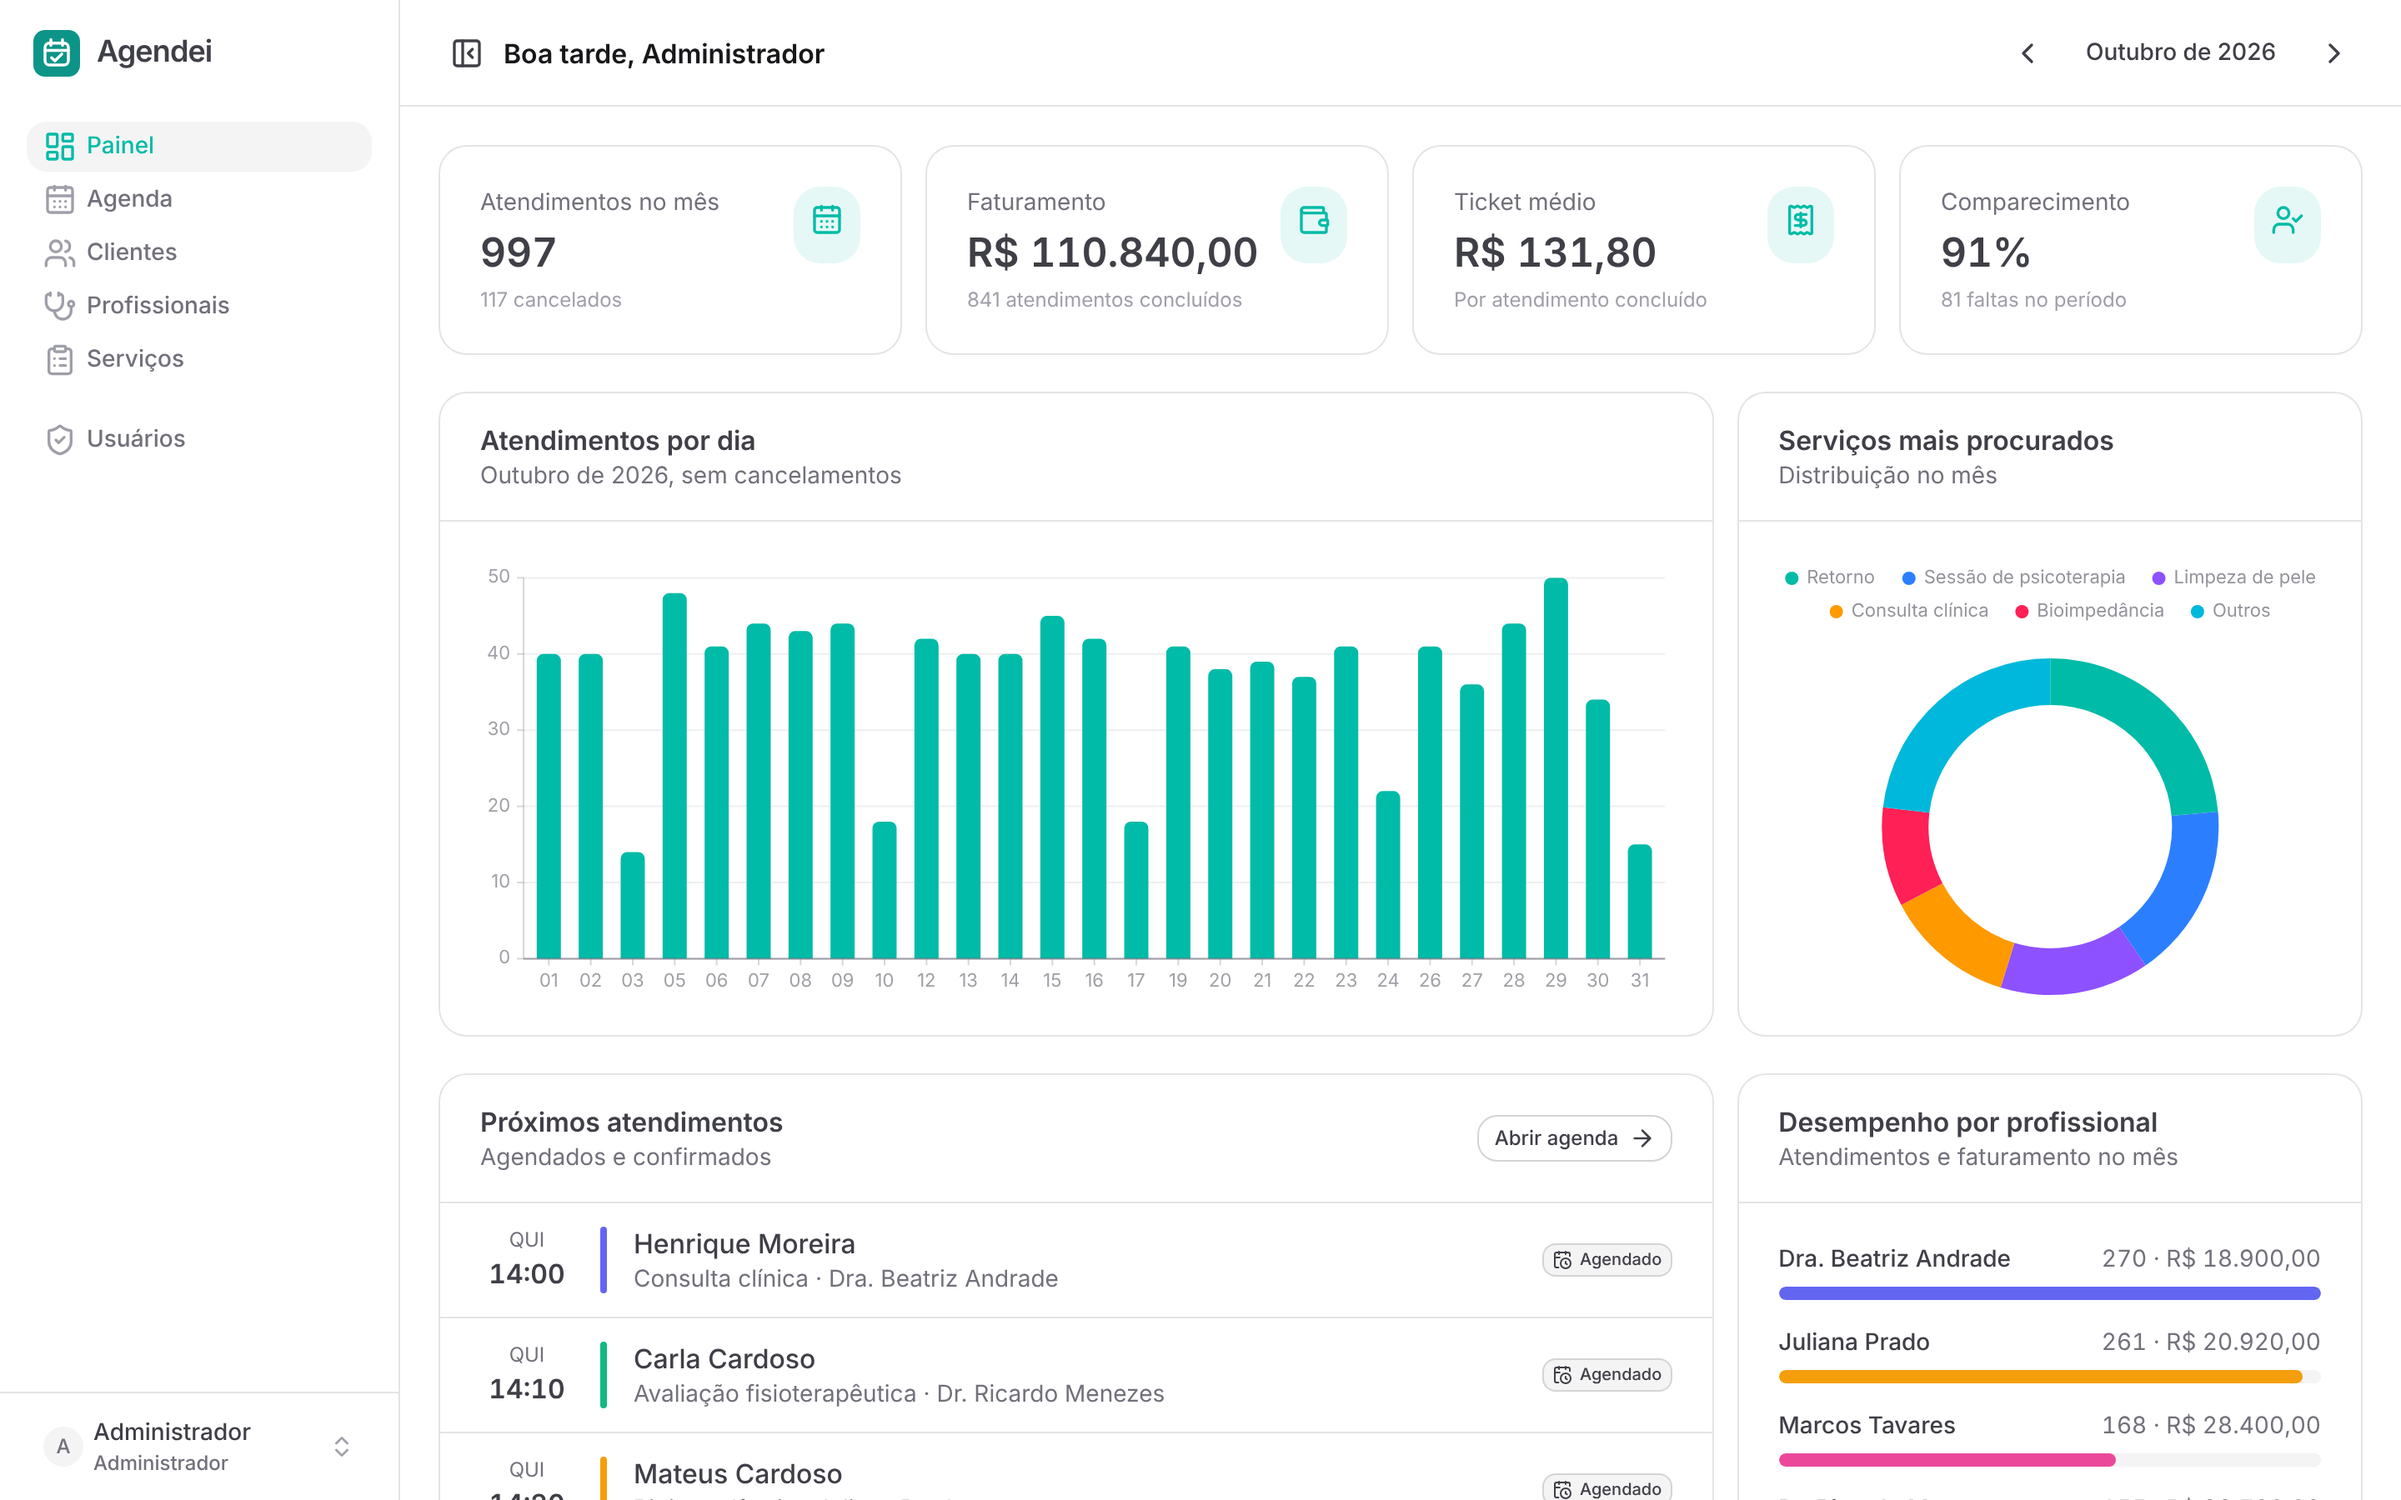
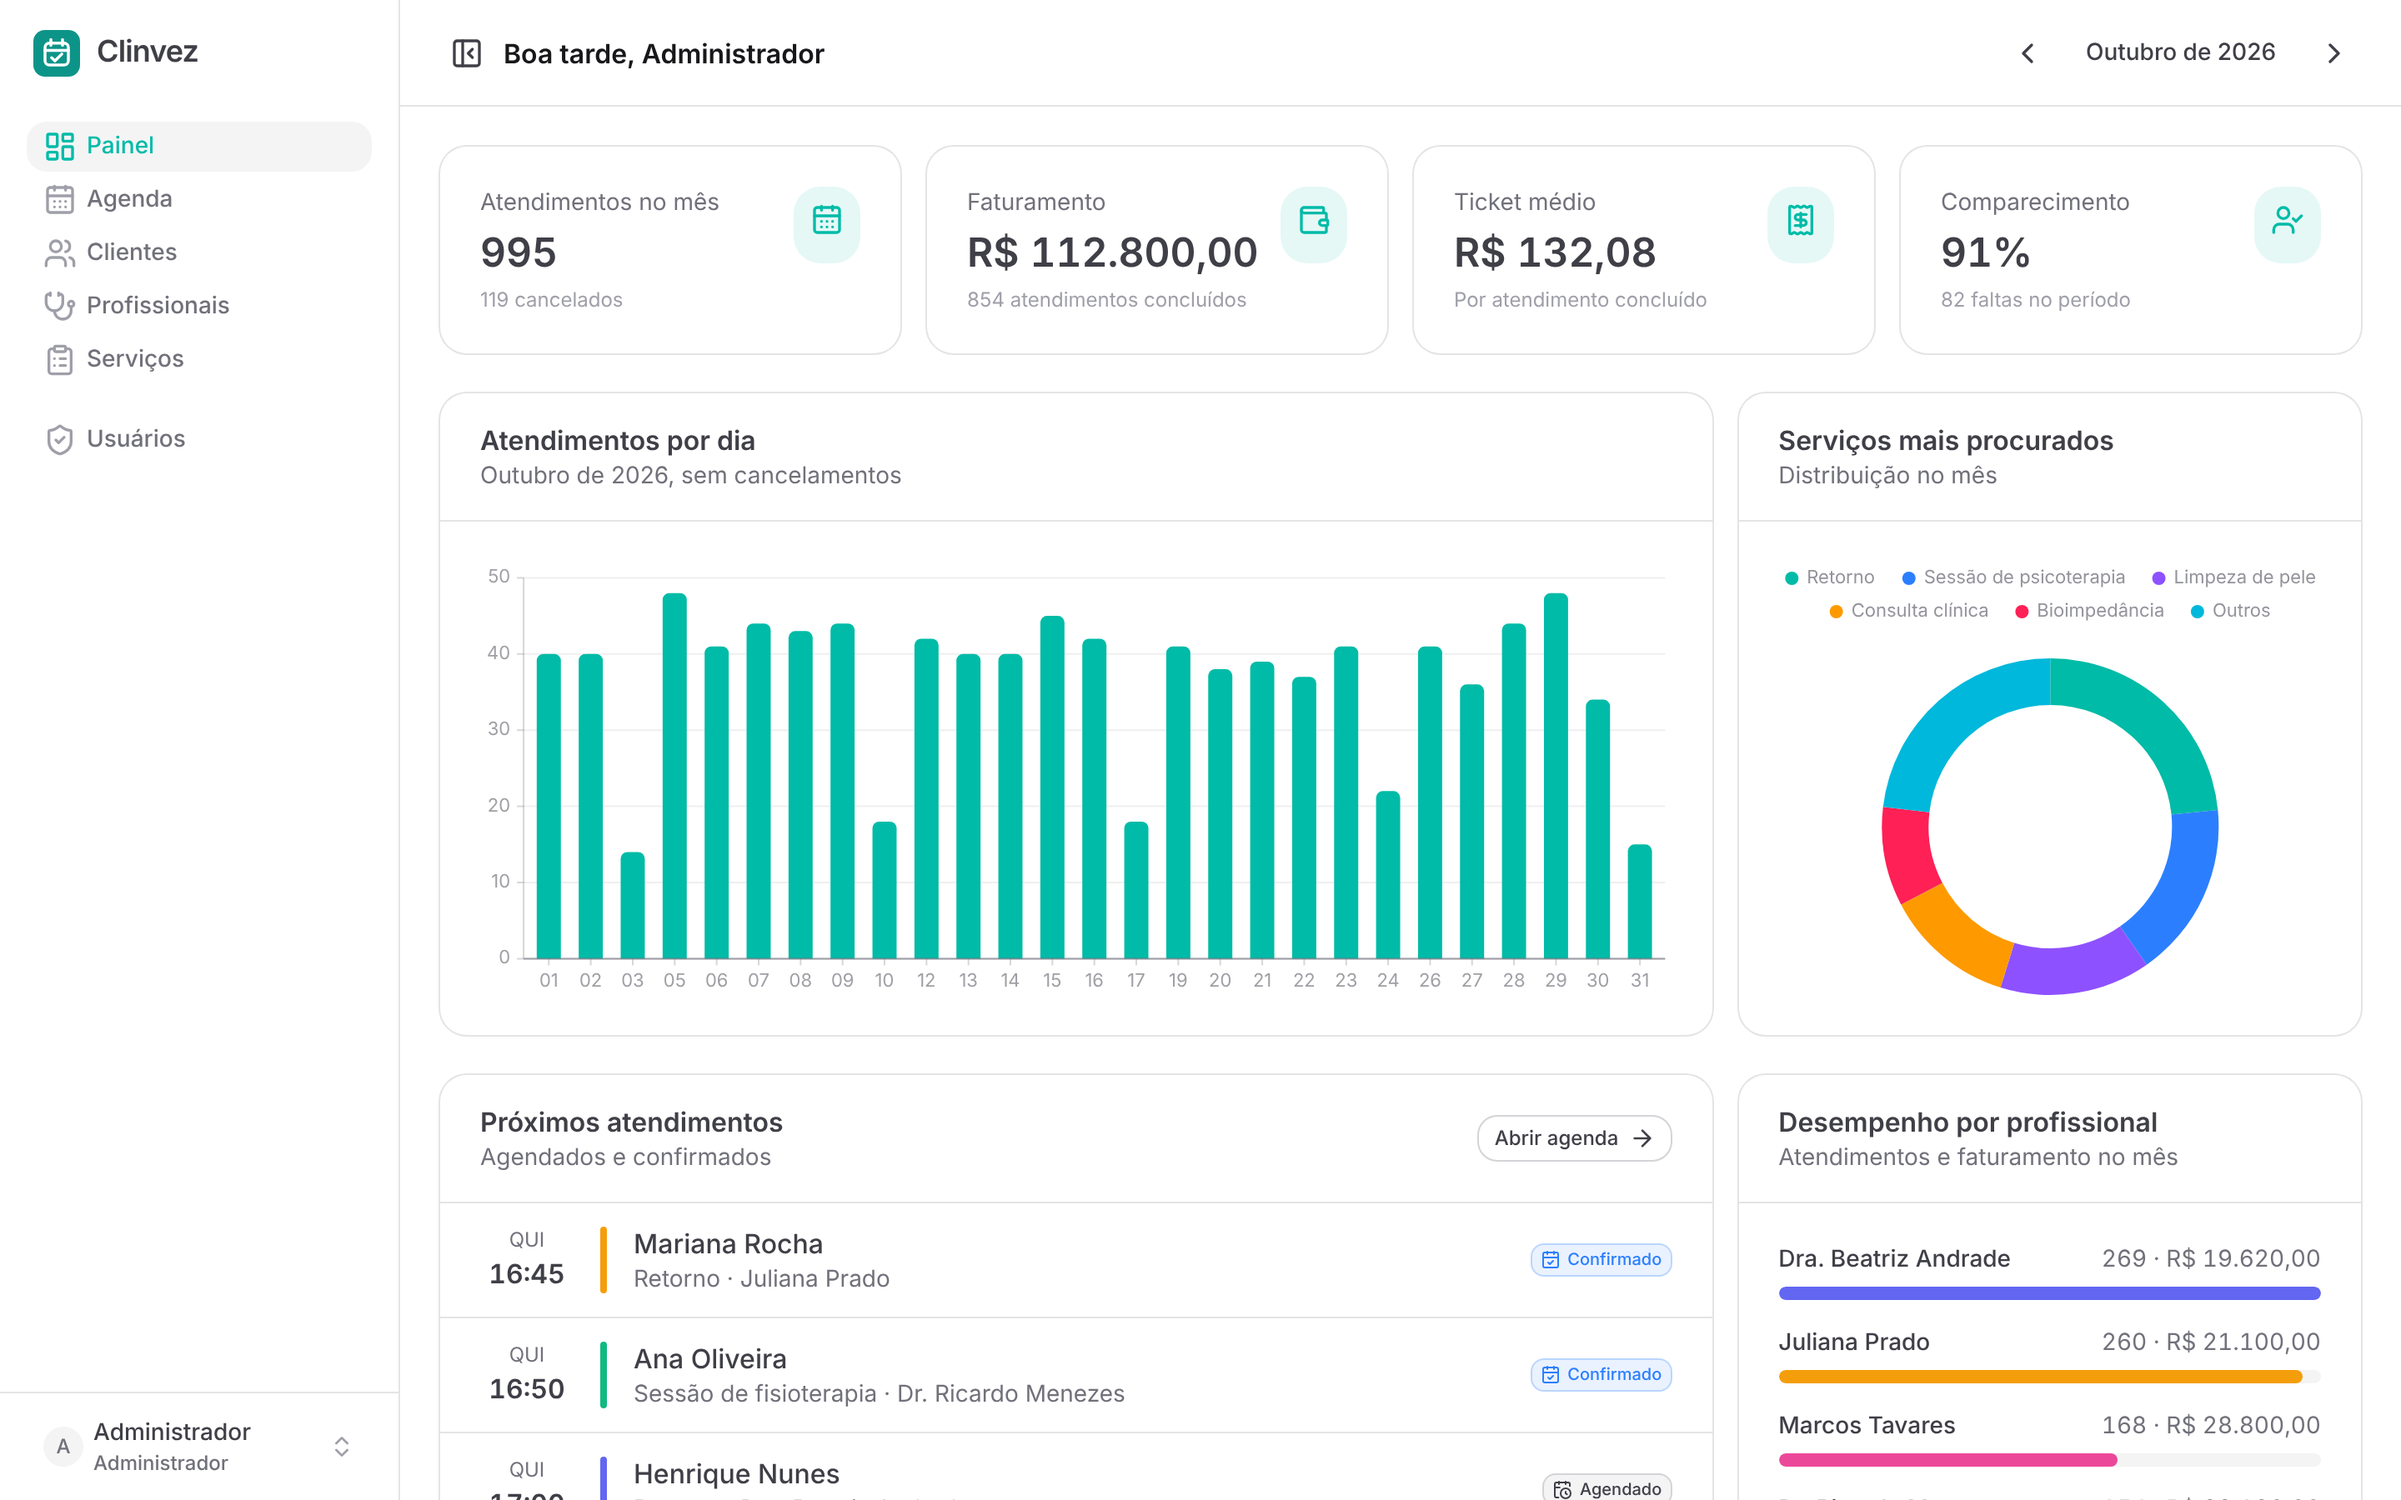
feat: renomear para Clinvez e centralizar a marca

diff --git a/apps/web/app/pages/login.vue b/apps/web/app/pages/login.vue
@@ -3,9 +3,10 @@ import type { FormSubmitEvent } from '@nuxt/ui'
 import { z } from 'zod'
 
 definePageMeta({ layout: false })
-useHead({ title: 'Entrar · Agendei' })
+useHead({ title: 'Entrar' })
 
 const { entrar } = useAuth()
+const { marca } = useAppConfig()
 const notificacao = useNotificacao()
 
 const schema = z.object({
@@ -14,7 +15,7 @@ const schema = z.object({
 })
 type Login = z.output<typeof schema>
 
-const estado = reactive({ email: 'admin@agendei.dev', senha: 'admin123' })
+const estado = reactive({ email: `admin@${marca.dominioDemo}`, senha: 'admin123' })
 const carregando = ref(false)
 
 async function enviar(evento: FormSubmitEvent<Login>) {
@@ -42,11 +43,11 @@ function usarPerfil(email: string, senha: string) {
       <div class="absolute -bottom-32 -left-20 size-96 rounded-full bg-primary-900/50 blur-3xl" />
       <div class="relative flex items-center gap-3">
         <img src="/favicon.svg" alt="" class="size-10 rounded-lg ring-2 ring-white/20">
-        <span class="text-2xl font-semibold tracking-tight">Agendei</span>
+        <span class="text-2xl font-semibold tracking-tight">{{ marca.nome }}</span>
       </div>
       <div class="relative max-w-md space-y-6">
         <h1 class="text-4xl font-semibold leading-tight">
-          A agenda da sua clínica, organizada do jeito certo.
+          {{ marca.slogan }}
         </h1>
         <ul class="space-y-3 text-primary-50/90">
           <li class="flex items-center gap-3"><UIcon name="i-lucide-calendar-check" class="size-5" /> Horários livres calculados automaticamente</li>
@@ -64,7 +65,7 @@ function usarPerfil(email: string, senha: string) {
         <div class="space-y-2">
           <div class="flex items-center gap-2 lg:hidden">
             <img src="/favicon.svg" alt="" class="size-8">
-            <span class="text-xl font-semibold">Agendei</span>
+            <span class="text-xl font-semibold">{{ marca.nome }}</span>
           </div>
           <h2 class="text-2xl font-semibold">Entrar</h2>
           <p class="text-muted">Acesse com sua conta para gerenciar a agenda.</p>
@@ -83,10 +84,10 @@ function usarPerfil(email: string, senha: string) {
         <UCard variant="subtle" :ui="{ body: 'space-y-3 sm:p-4' }">
           <p class="text-sm font-medium">Contas de demonstração</p>
           <div class="grid grid-cols-2 gap-2">
-            <UButton color="neutral" variant="outline" icon="i-lucide-shield-check" @click="usarPerfil('admin@agendei.dev', 'admin123')">
+            <UButton color="neutral" variant="outline" icon="i-lucide-shield-check" @click="usarPerfil(`admin@${marca.dominioDemo}`, 'admin123')">
               Admin
             </UButton>
-            <UButton color="neutral" variant="outline" icon="i-lucide-headset" @click="usarPerfil('recepcao@agendei.dev', 'recepcao123')">
+            <UButton color="neutral" variant="outline" icon="i-lucide-headset" @click="usarPerfil(`recepcao@${marca.dominioDemo}`, 'recepcao123')">
               Recepção
             </UButton>
           </div>

diff --git a/apps/web/app/layouts/default.vue b/apps/web/app/layouts/default.vue
@@ -2,6 +2,7 @@
 import type { DropdownMenuItem, NavigationMenuItem } from '@nuxt/ui'
 
 const { usuario, ehAdmin, sair } = useAuth()
+const { marca } = useAppConfig()
 const colorMode = useColorMode()
 const aberto = ref(false)
 
@@ -43,7 +44,7 @@ const opcoesUsuario = computed<DropdownMenuItem[][]>(() => [
       <template #header="{ collapsed }">
         <NuxtLink to="/" class="flex items-center gap-2.5 px-1">
           <img src="/favicon.svg" alt="" class="size-7 shrink-0">
-          <span v-if="!collapsed" class="text-lg font-semibold tracking-tight">Agendei</span>
+          <span v-if="!collapsed" class="text-lg font-semibold tracking-tight">{{ marca.nome }}</span>
         </NuxtLink>
       </template>
 

diff --git a/apps/api/prisma/seed.ts b/apps/api/prisma/seed.ts
@@ -44,8 +44,8 @@ async function main() {
 
   await prisma.usuario.createMany({
     data: [
-      { nome: 'Administrador', email: 'admin@agendei.dev', senhaHash: await bcrypt.hash('admin123', 10), perfil: 'ADMIN' },
-      { nome: 'Recepção', email: 'recepcao@agendei.dev', senhaHash: await bcrypt.hash('recepcao123', 10), perfil: 'ATENDENTE' },
+      { nome: 'Administrador', email: 'admin@clinvez.dev', senhaHash: await bcrypt.hash('admin123', 10), perfil: 'ADMIN' },
+      { nome: 'Recepção', email: 'recepcao@clinvez.dev', senhaHash: await bcrypt.hash('recepcao123', 10), perfil: 'ATENDENTE' },
     ],
   });
 
@@ -171,4 +171,3 @@ main()
     process.exit(1);
   })
   .finally(() => prisma.$disconnect());
-  

diff --git a/apps/web/app/composables/useAuth.ts b/apps/web/app/composables/useAuth.ts
@@ -1,8 +1,8 @@
 import type { Usuario } from '~/types'
 
 export function useAuth() {
-  const token = useCookie<string | null>('agendei_token', { sameSite: 'lax', maxAge: 60 * 60 * 8 })
-  const usuario = useCookie<Usuario | null>('agendei_usuario', { sameSite: 'lax', maxAge: 60 * 60 * 8 })
+  const token = useCookie<string | null>('sessao_token', { sameSite: 'lax', maxAge: 60 * 60 * 8 })
+  const usuario = useCookie<Usuario | null>('sessao_usuario', { sameSite: 'lax', maxAge: 60 * 60 * 8 })
   const config = useRuntimeConfig()
 
   const autenticado = computed(() => !!token.value)

diff --git a/apps/web/app/pages/clientes/[id].vue b/apps/web/app/pages/clientes/[id].vue
@@ -20,7 +20,7 @@ const { data: cliente, status, refresh } = useAsyncData(
   () => api<ClienteDetalhe>(`/clientes/${rota.params.id}`),
 )
 
-useHead({ title: () => `${cliente.value?.nome ?? 'Cliente'} · Agendei` })
+useHead({ title: () => cliente.value?.nome ?? 'Cliente' })
 
 const modalCliente = ref(false)
 const modalAgendamento = ref(false)

diff --git a/apps/web/app/pages/profissionais.vue b/apps/web/app/pages/profissionais.vue
@@ -3,7 +3,7 @@ import type { FormSubmitEvent } from '@nuxt/ui'
 import { z } from 'zod'
 import type { Profissional, Servico } from '~/types'
 
-useHead({ title: 'Profissionais · Agendei' })
+useHead({ title: 'Profissionais' })
 
 const api = useApi()
 const notificacao = useNotificacao()

diff --git a/apps/web/app/pages/servicos.vue b/apps/web/app/pages/servicos.vue
@@ -3,7 +3,7 @@ import type { FormSubmitEvent, TableColumn } from '@nuxt/ui'
 import { z } from 'zod'
 import type { Servico } from '~/types'
 
-useHead({ title: 'Serviços · Agendei' })
+useHead({ title: 'Serviços' })
 
 const api = useApi()
 const notificacao = useNotificacao()

diff --git a/apps/web/app/pages/clientes/index.vue b/apps/web/app/pages/clientes/index.vue
@@ -2,7 +2,7 @@
 import type { DropdownMenuItem, TableColumn } from '@nuxt/ui'
 import type { Cliente, Paginado } from '~/types'
 
-useHead({ title: 'Clientes · Agendei' })
+useHead({ title: 'Clientes' })
 
 const api = useApi()
 const notificacao = useNotificacao()

diff --git a/apps/web/app/pages/usuarios.vue b/apps/web/app/pages/usuarios.vue
@@ -4,7 +4,7 @@ import { z } from 'zod'
 import type { Perfil, Usuario } from '~/types'
 
 definePageMeta({ apenasAdmin: true })
-useHead({ title: 'Usuários · Agendei' })
+useHead({ title: 'Usuários' })
 
 const api = useApi()
 const notificacao = useNotificacao()

diff --git a/apps/web/app/pages/agenda.vue b/apps/web/app/pages/agenda.vue
@@ -1,7 +1,7 @@
 <script setup lang="ts">
 import type { Agendamento, Profissional, SugestaoAgendamento } from '~/types'
 
-useHead({ title: 'Agenda · Agendei' })
+useHead({ title: 'Agenda' })
 
 const api = useApi()
 const notificacao = useNotificacao()

diff --git a/apps/web/nuxt.config.ts b/apps/web/nuxt.config.ts
@@ -6,7 +6,6 @@ export default defineNuxtConfig({
   devtools: { enabled: false },
   app: {
     head: {
-      title: 'Agendei',
       htmlAttrs: { lang: 'pt-BR' },
       link: [{ rel: 'icon', type: 'image/svg+xml', href: '/favicon.svg' }],
     },

diff --git a/apps/web/app/app.vue b/apps/web/app/app.vue
@@ -1,5 +1,11 @@
 <script setup lang="ts">
 import { pt_br } from '@nuxt/ui/locale'
+
+const { marca } = useAppConfig()
+
+useHead({
+  titleTemplate: titulo => (titulo ? `${titulo} · ${marca.nome}` : marca.nome),
+})
 </script>
 
 <template>
